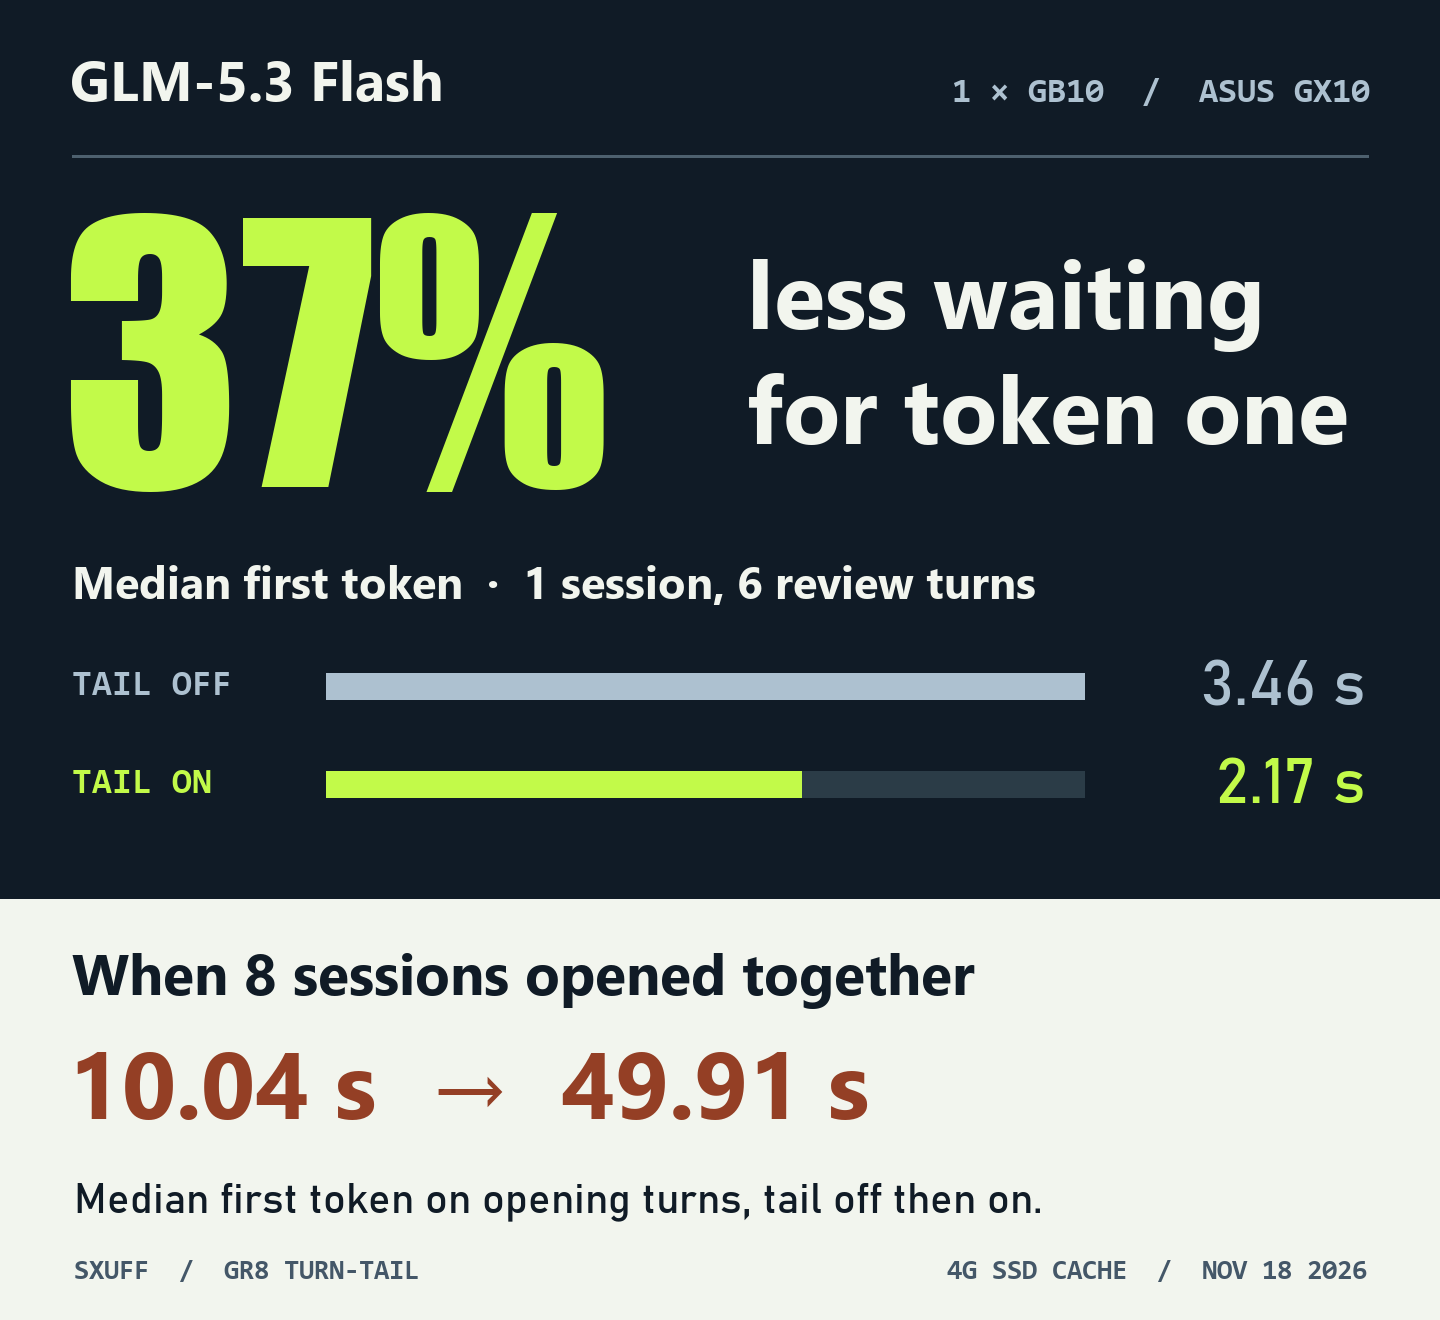
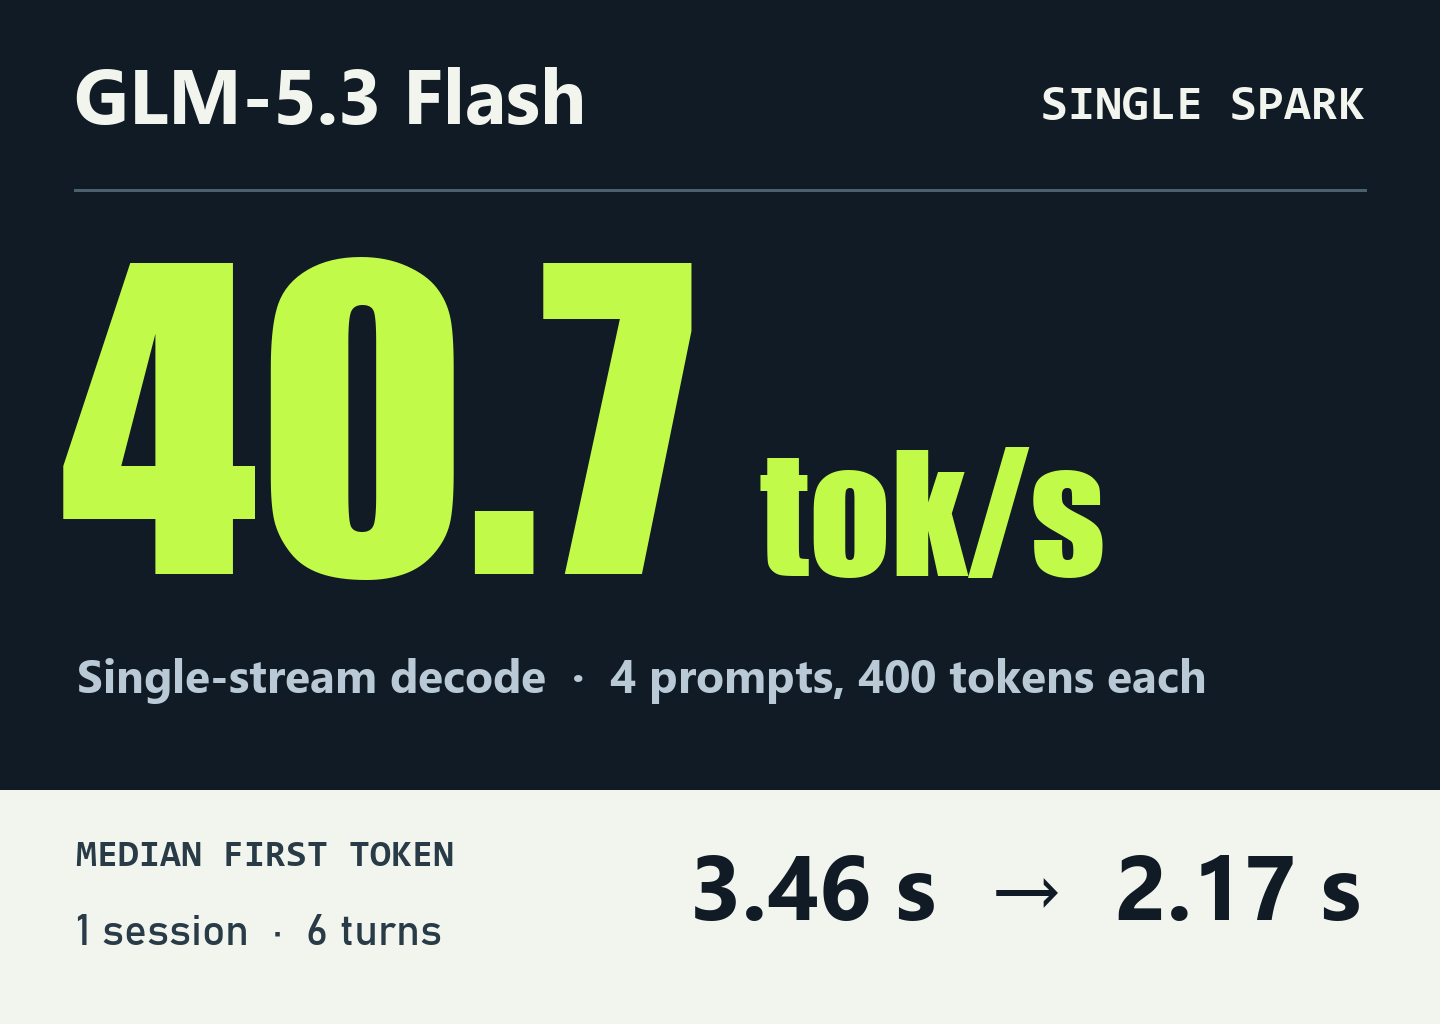
Lead single Spark card with measured 40.7 tok/s decode

diff --git a/gr8/README.md b/gr8/README.md
@@ -2,11 +2,11 @@
 
 Run the text model on one NVIDIA GB10 with KindlingAI's EXLR8 bit201 checkpoint, INT4 KV cache and adaptive DFlash2 decoding. The turn-tail patch lets a follow-up request reuse more of the preceding prompt. This recipe uses the same engine source and cache settings as the November 18 ASUS Ascent GX10 comparison.
 
-## Measured on one GX10
+## 40.7 tok/s on a single Spark
 
-![GLM-5.3 Flash median first token with GR8 turn-tail off and on. One session, six turns: 3.46 to 2.17 seconds. Opening turns at eight sessions: 10.04 to 49.91 seconds.](results/2026-11-18-gx10/turn-tail-x.png)
+![GLM-5.3 Flash on a single Spark. Single-stream decode averaged 40.7 tok/s. In one six-turn session, median first-token wait fell from 3.46 to 2.17 seconds with turn-tail.](results/2026-11-18-gx10/turn-tail-x.png)
 
-With turn-tail enabled, median time to first token across six single-session turns was **2.17 s**, compared with **3.46 s** with the patch off. The share of prompt tokens reused rose from **72.7% to 84.6%**. At eight concurrent sessions all eight opening turns missed the cache with the patch on. The full 48-turn replay took **268.8 s** on and **249.4 s** off. One off/on pair, same model, same image, fresh 4G prompt-cache tier in each arm.
+On one ASUS GX10, single-stream decode averaged **40.71 tok/s** with turn-tail on and **40.83 tok/s** off across four prompt medians. In one six-turn session, median first-token wait fell from **3.46 s to 2.17 s**. At eight concurrent sessions, all eight opening turns missed the cache with turn-tail on, and the 48-turn replay took 268.8 s on versus 249.4 s off. Both arms used a fresh 4G SSD prompt cache.
 
 [Full results and per-turn timings](results/2026-11-18-gx10/README.md) · [Result card](results/2026-11-18-gx10/turn-tail.png)
 

diff --git a/README.md b/README.md
@@ -1,8 +1,8 @@
 # GLM-5.3 Flash M288 Mosaic 12L on one NVIDIA GB10
 
-## GR8 turn-tail on one GB10
+## GR8 on a single Spark
 
-In a six-turn code review on one ASUS GX10, enabling turn-tail cut median time to first token by **37%**, from 3.46 s to 2.17 s. At eight simultaneous sessions, the median for the eight opening turns rose from 10.04 s to 49.91 s. Both runs used a fresh 4G SSD prompt cache. [Run the GR8 recipe](gr8/) · [Read the benchmark and raw timings](gr8/results/2026-11-18-gx10/)
+**40.7 tok/s** single-stream decode on an ASUS GX10. Turn-tail cut median first-token wait from 3.46 s to 2.17 s in a six-turn, single-session review. [Run the GR8 recipe](gr8/) · [Raw results, including eight concurrent sessions](gr8/results/2026-11-18-gx10/)
 
 ## Run it
 
